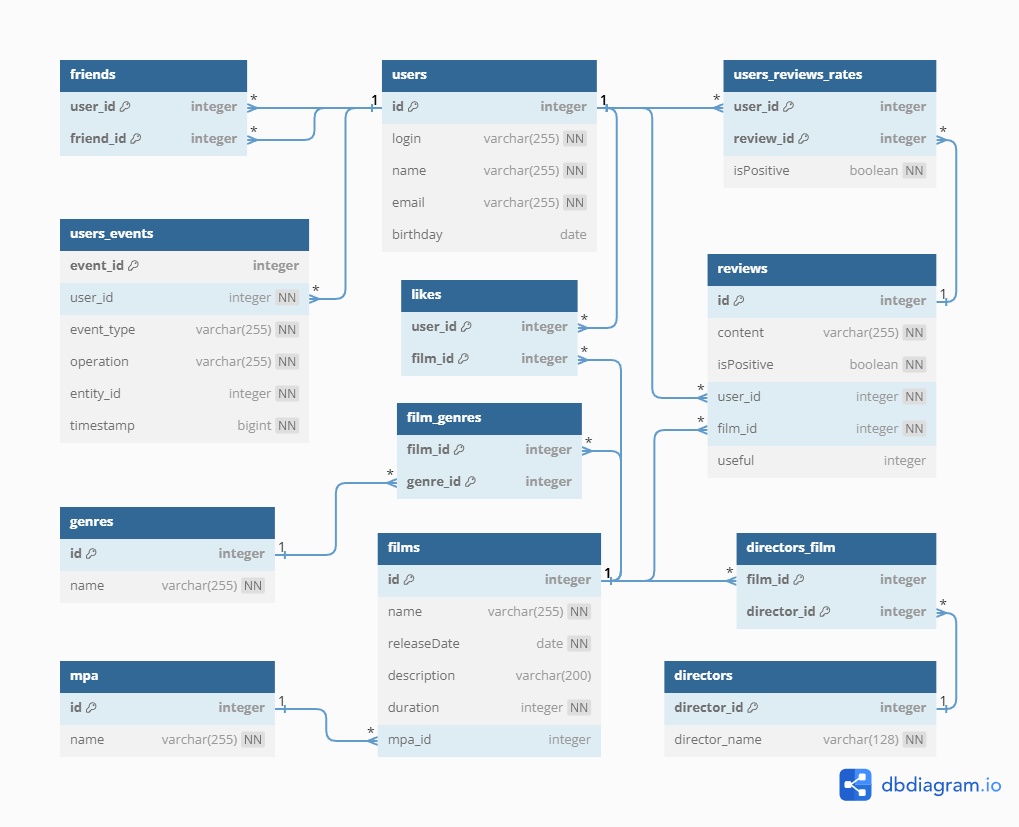
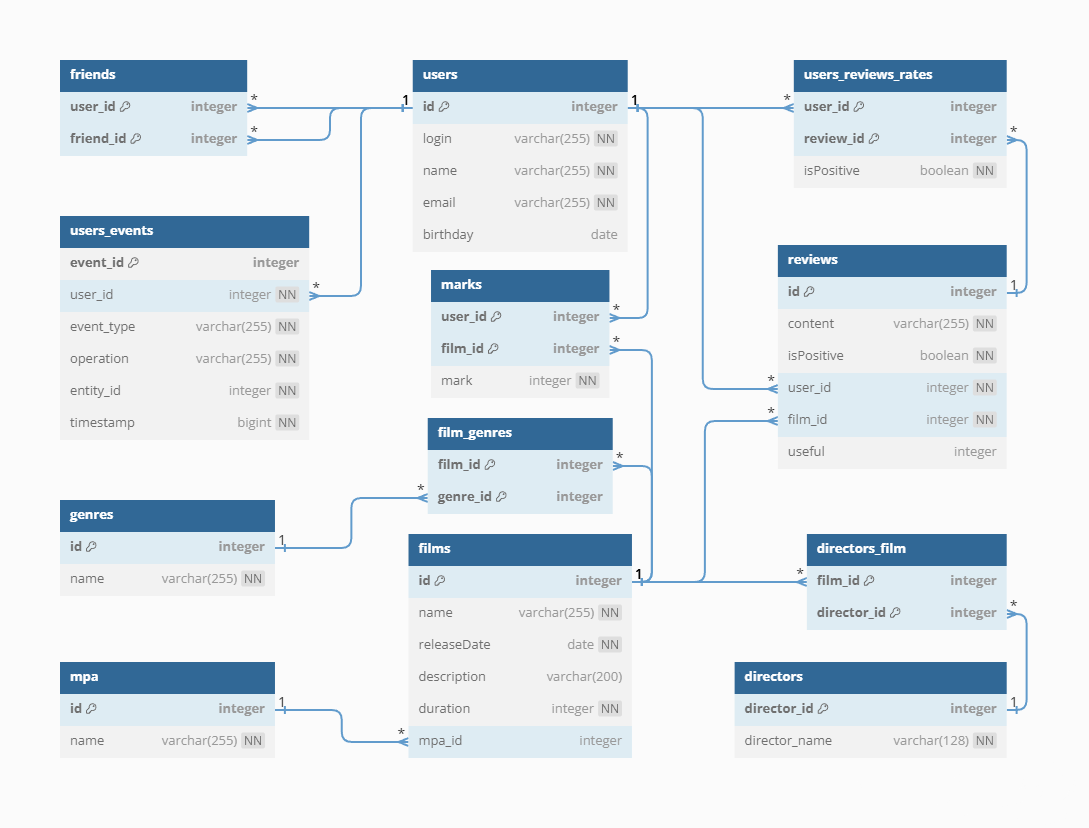
обновить схему БД и ридми

diff --git a/README.md b/README.md
@@ -1,6 +1,13 @@
 # java-filmorate
 Это приложение предназначено для возврата, рекомендованных к просмотру, фильмов.   
-Функциональность:   
+
+_**Используемый стэк**_: Spring Boot, SQL, PostgreSQL, JDBC Template, Lombok, Maven.
+
+## Функциональность
+В этом приложении пользователи могут найти себе какие-нибудь интересные фильмы для просмотра. А так же оставлять рецензии
+на них.  
+
+Ниже приведён обобщённый список с функциями:
 - Добавление, обновление и удаление фильмов
 - Добавление, обновление и удаление пользователей
 - Получение списков всех фильмов и всех пользователей
@@ -8,11 +15,24 @@
 - Получение фильмов, пользователей и отзывов по ид
 - Добавление и удаление пользователями друг друга в друзья
 - Получение списков индивидуальных и общих друзей
-- Добавление и удаление пользователями лайков к фильмам
+- Добавление и удаление пользователями оценок к фильмам
 - Получение списков общих понравившихся фильмов
 - Получение списка популярных фильмов разного размера 
 - Получение самого популярного фильма
 - Просмотр активности пользователей
+- Получение рекомендованных фильмов
+
+### Оценки, рейтинги и рекомендации.
+Отдельно стоит остановиться на оценках, рейтингах и рекомендациях.  
+У пользователей есть возможность оставить оценку к фильму.
+На основе этих оценок, составляются рейтинги фильмов. При чём, этот рейтинг формируется
+таким образом, чтобы фильм всего с одной оценкой в 10 баллов не оказалось выше в рейтинге фильма с нескольким
+оценками по 9 баллов каждая. 
+Рекомендации.  
+Алгоритм рекомендаций работает следующим образом: Сначала выявляются все пользователи, оценившие те же фильмы, 
+что и целевой пользователь. Далее высчитывается тот пользователь, чья разница в оценках будет минимальная,
+т.е. пользователь с максимально похожими "вкусами". Затем, в качестве рекомендаций, целевому пользователю предлагаются
+все фильмы, которые положительно оценил "похожий" пользователь.
 
 ## Схема базы данных
 ![Схема](database-schema.png)
